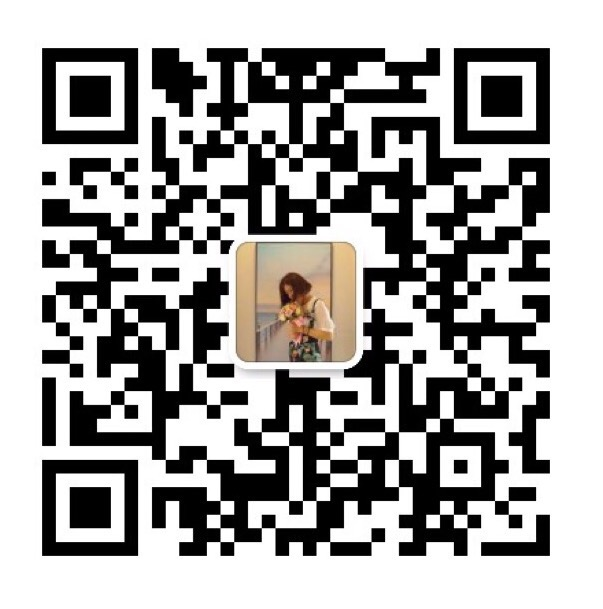
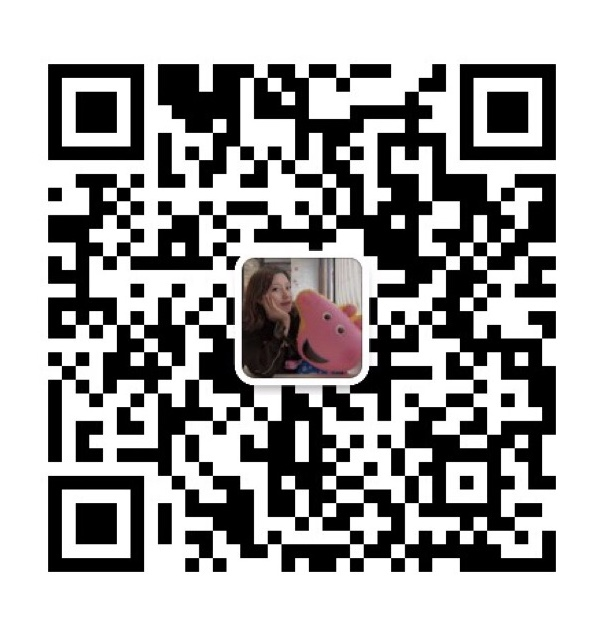
me

diff --git a/README.md b/README.md
@@ -1,6 +1,8 @@
 # soul-weapp 简介
 小程序常用商城组件案例及营销组件
-
+<p>
+  <img src="./index.png" width="600"  style="display:inline;">
+</p>
 # 运行例子
 git clone https://github.com/sunnie1992/soul-weapp.git
 
@@ -13,18 +15,19 @@ git clone https://github.com/sunnie1992/soul-weapp.git
 <p>
 九宫格翻牌  "pages/gridCard/index"
 </p>
+<p>
+红包雨   开发中
+</p>
 
 # 页面
 "pages/filter/index"      功能筛选
 # 筛选预览
 <p>
-  <img src="./page5.gif" width="800"  style="display:inline;">
+  <img src="./page5.gif" width="600"  style="display:inline;">
 </p>
-如果对你有帮助送我一颗小星星吧
-=======
 # 关于我
 
-您可以扫描添加下方的微信并备注 Soul Weapp 进交流群。
+您可以扫描添加下方的微信并备注 Soul 给我提意见，交流学习。
 <p>
   <img src="./mine.jpg" width="256" style="display:inline;">
 </p>
